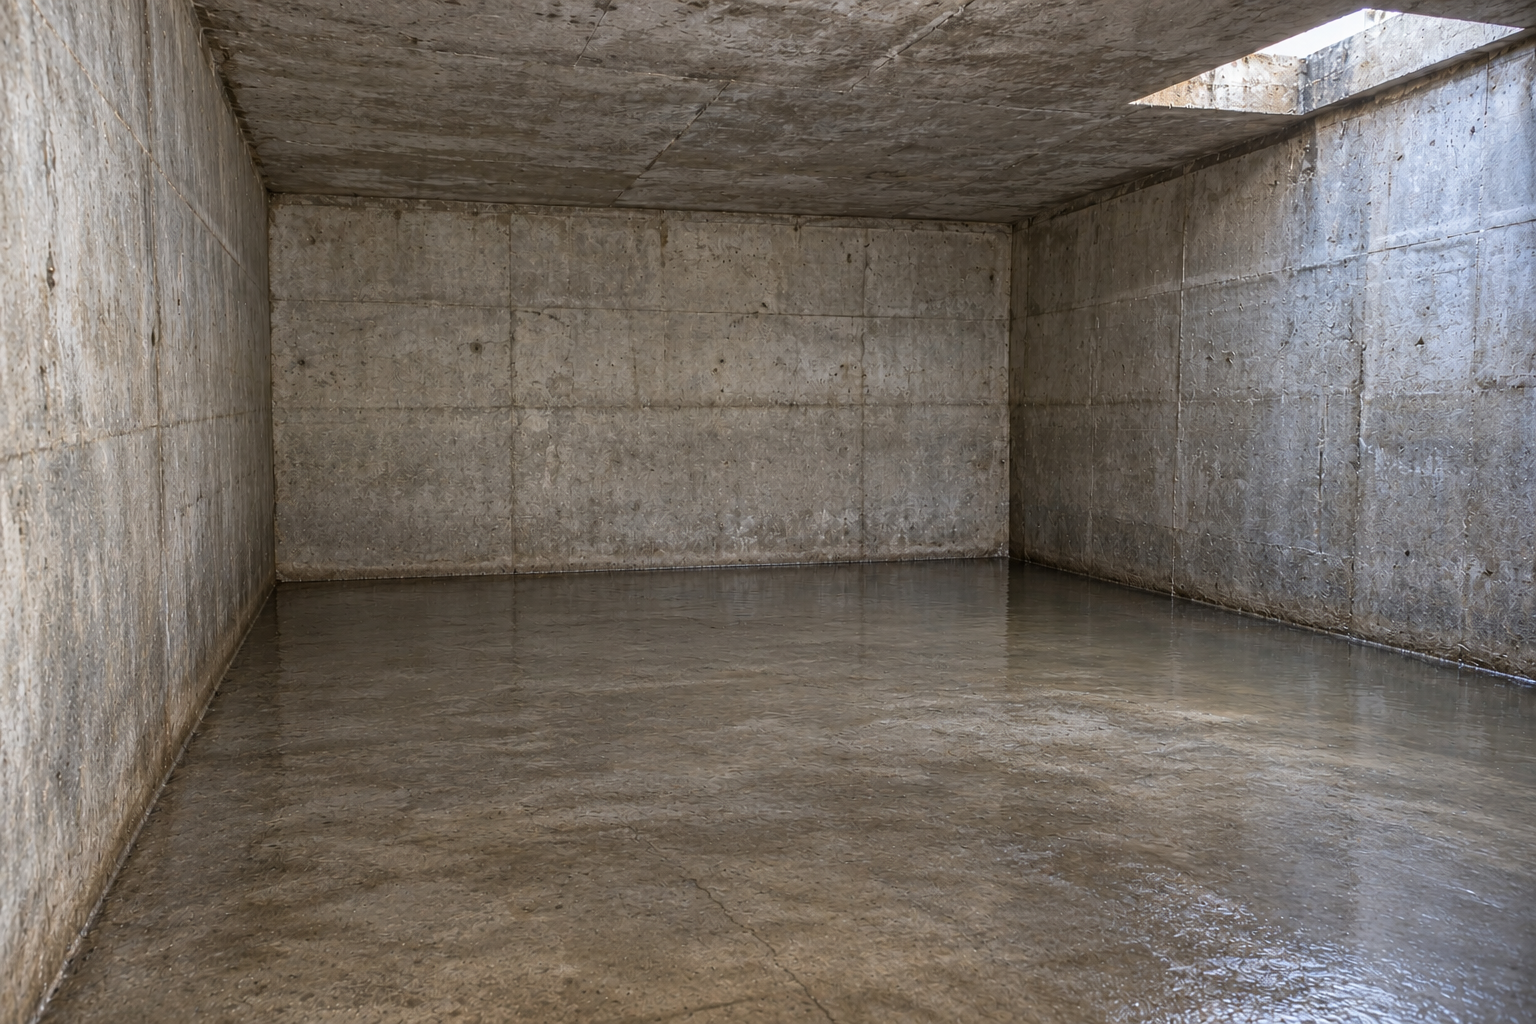
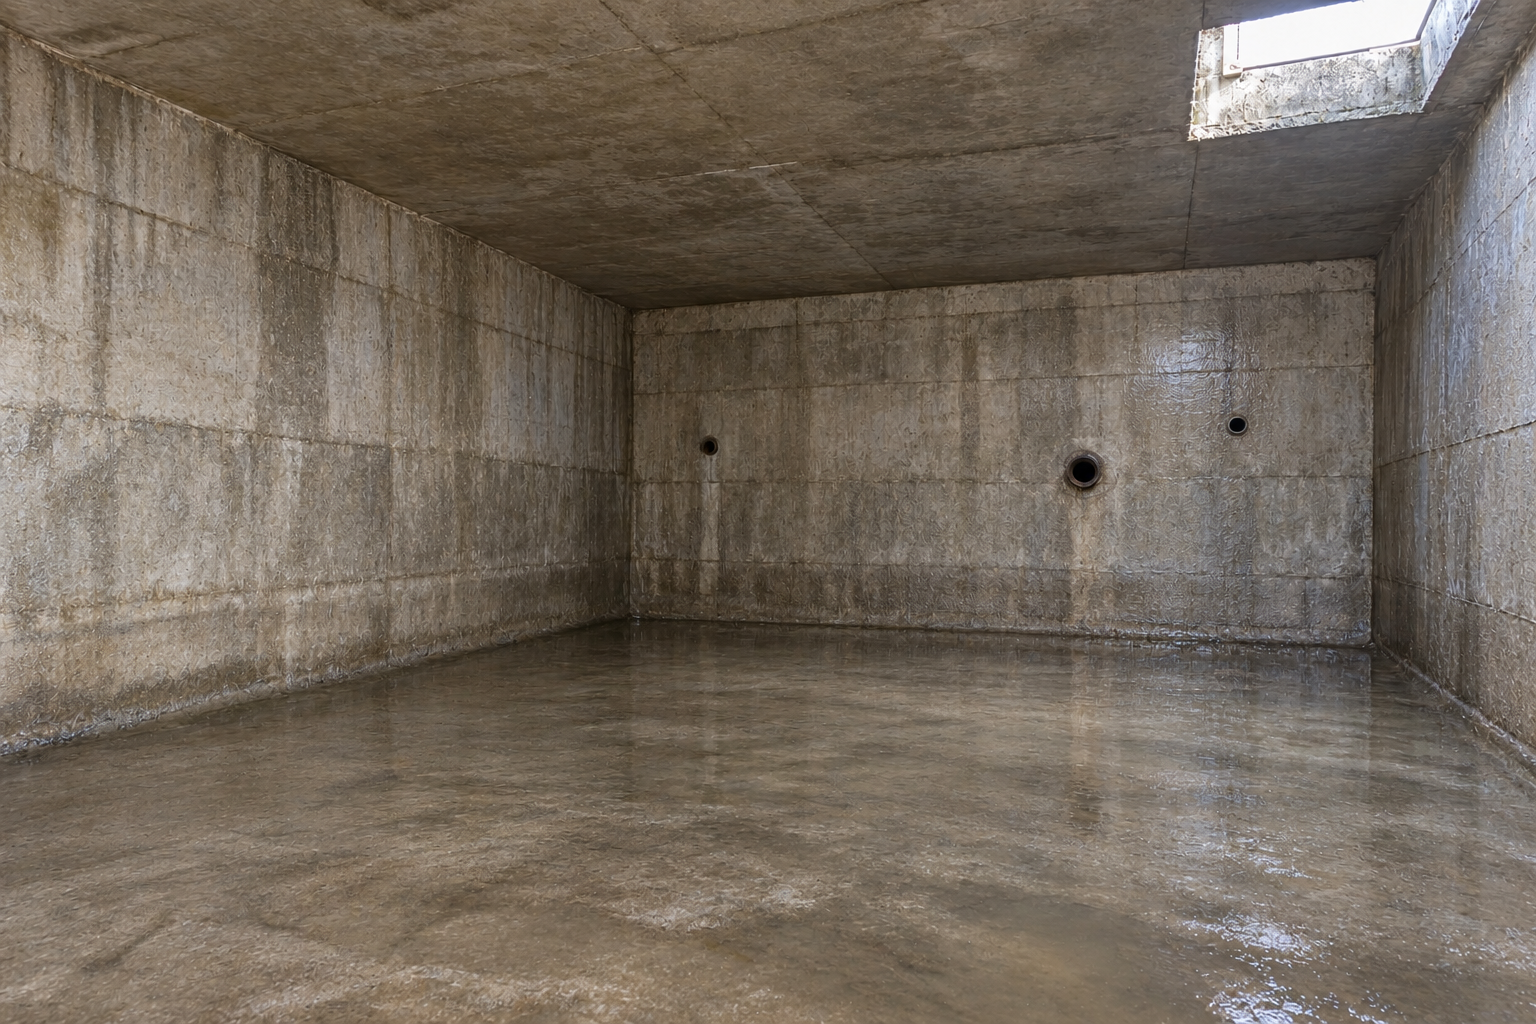
style(hero): shorten the hero and update the before and after images

diff --git a/src/blocks/hero/index.tsx b/src/blocks/hero/index.tsx
@@ -47,7 +47,7 @@ const Hero = ({ heading, text, before, after, actions, locale }: HeroProps) => {
   return (
     <CommonFullWidthWrapper
       wrapperProps={{ "data-surface": "band" }}
-      wrapperClassName="relative flex-col min-h-[calc(100svh-var(--header-height)-1rem)] [--color-band:var(--color-primary-900)]"
+      wrapperClassName="relative flex-col min-h-[calc(65svh-var(--header-height))] [--color-band:var(--color-primary-900)]"
       // pointer events pass through to the comparison beside the text
       className="pointer-events-none relative z-10"
       beforeContainer={
